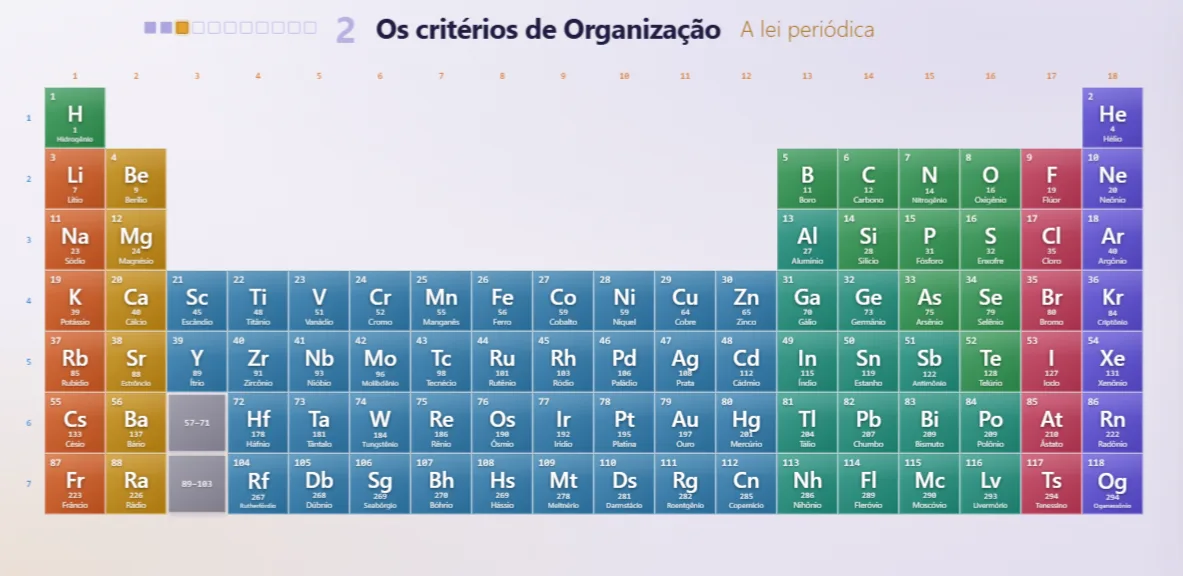
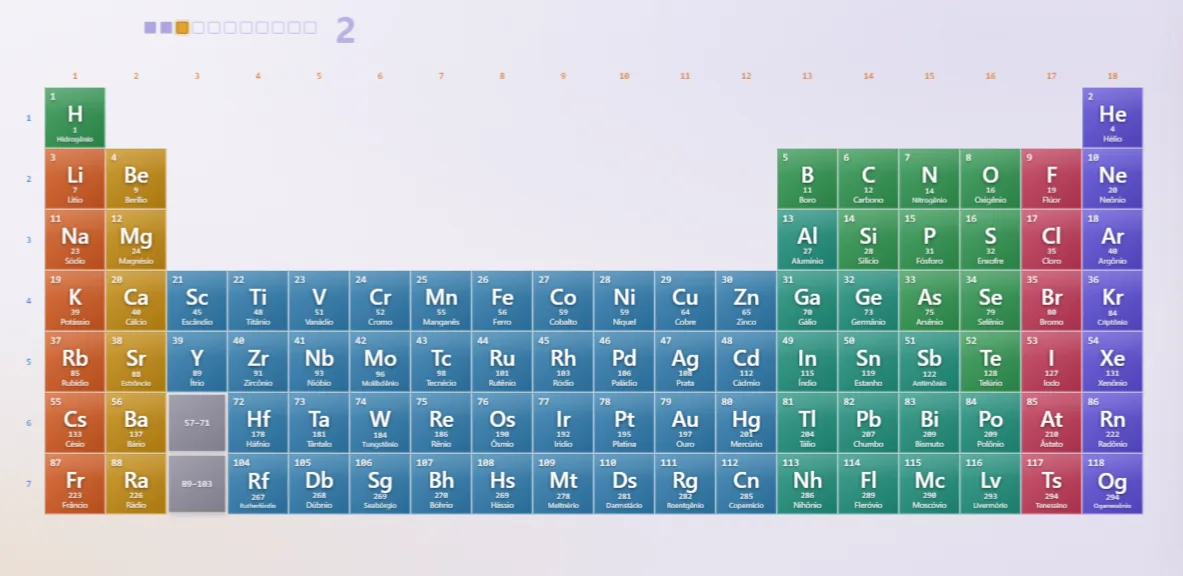
v19.7 · Carrossel: os cartões sem o título e o subtítulo do slide, só a régua e o número (o título já vai escrito em cima); fotos refeitas

Changed region(s): [[0.3043, 0.0312, 0.7608, 0.0938]]

diff --git a/tabela-periodica.html b/tabela-periodica.html
@@ -2154,6 +2154,8 @@ html.palco-largo #carrossel{left:calc(-1 * var(--folga));right:calc(-1 * var(--f
 #carrossel.aberto .car-item.centro .car-cartao{box-shadow:0 0 0 6px var(--ouro-luz),0 18px 40px rgba(0,0,0,.45)}
 .car-deck{position:absolute;inset:0;z-index:1;pointer-events:none}
 .car-deck .slide{opacity:1;visibility:visible}
+/* no cartão fica só o número: o título já vai escrito em cima dele */
+.car-deck .tira .title, .car-deck .tira .subtitle{visibility:hidden!important}
 /* na cópia nada se mexe: ela é uma fotografia do slide, já no fim de
    cada animação, e não no começo */
 .car-deck *{animation-delay:-100s!important;animation-play-state:paused!important;transition:none!important}
@@ -2613,7 +2615,7 @@ const SLIDES = [
    worker recebe-a no endereço com que é registado (sw.js?v=…). Mudando
    este texto, muda o endereço, o aparelho instala o serviço novo e o
    cache velho vai-se embora — não há uma segunda versão para esquecer. */
-const VERSAO = 'v19.6';
+const VERSAO = 'v19.7';
 
 /* A CAPA NOVA — a ideia do Claude Design: fundo escuro, o título grande e
    claro à esquerda, a tabelinha apagada ao fundo à direita e o sódio, o
